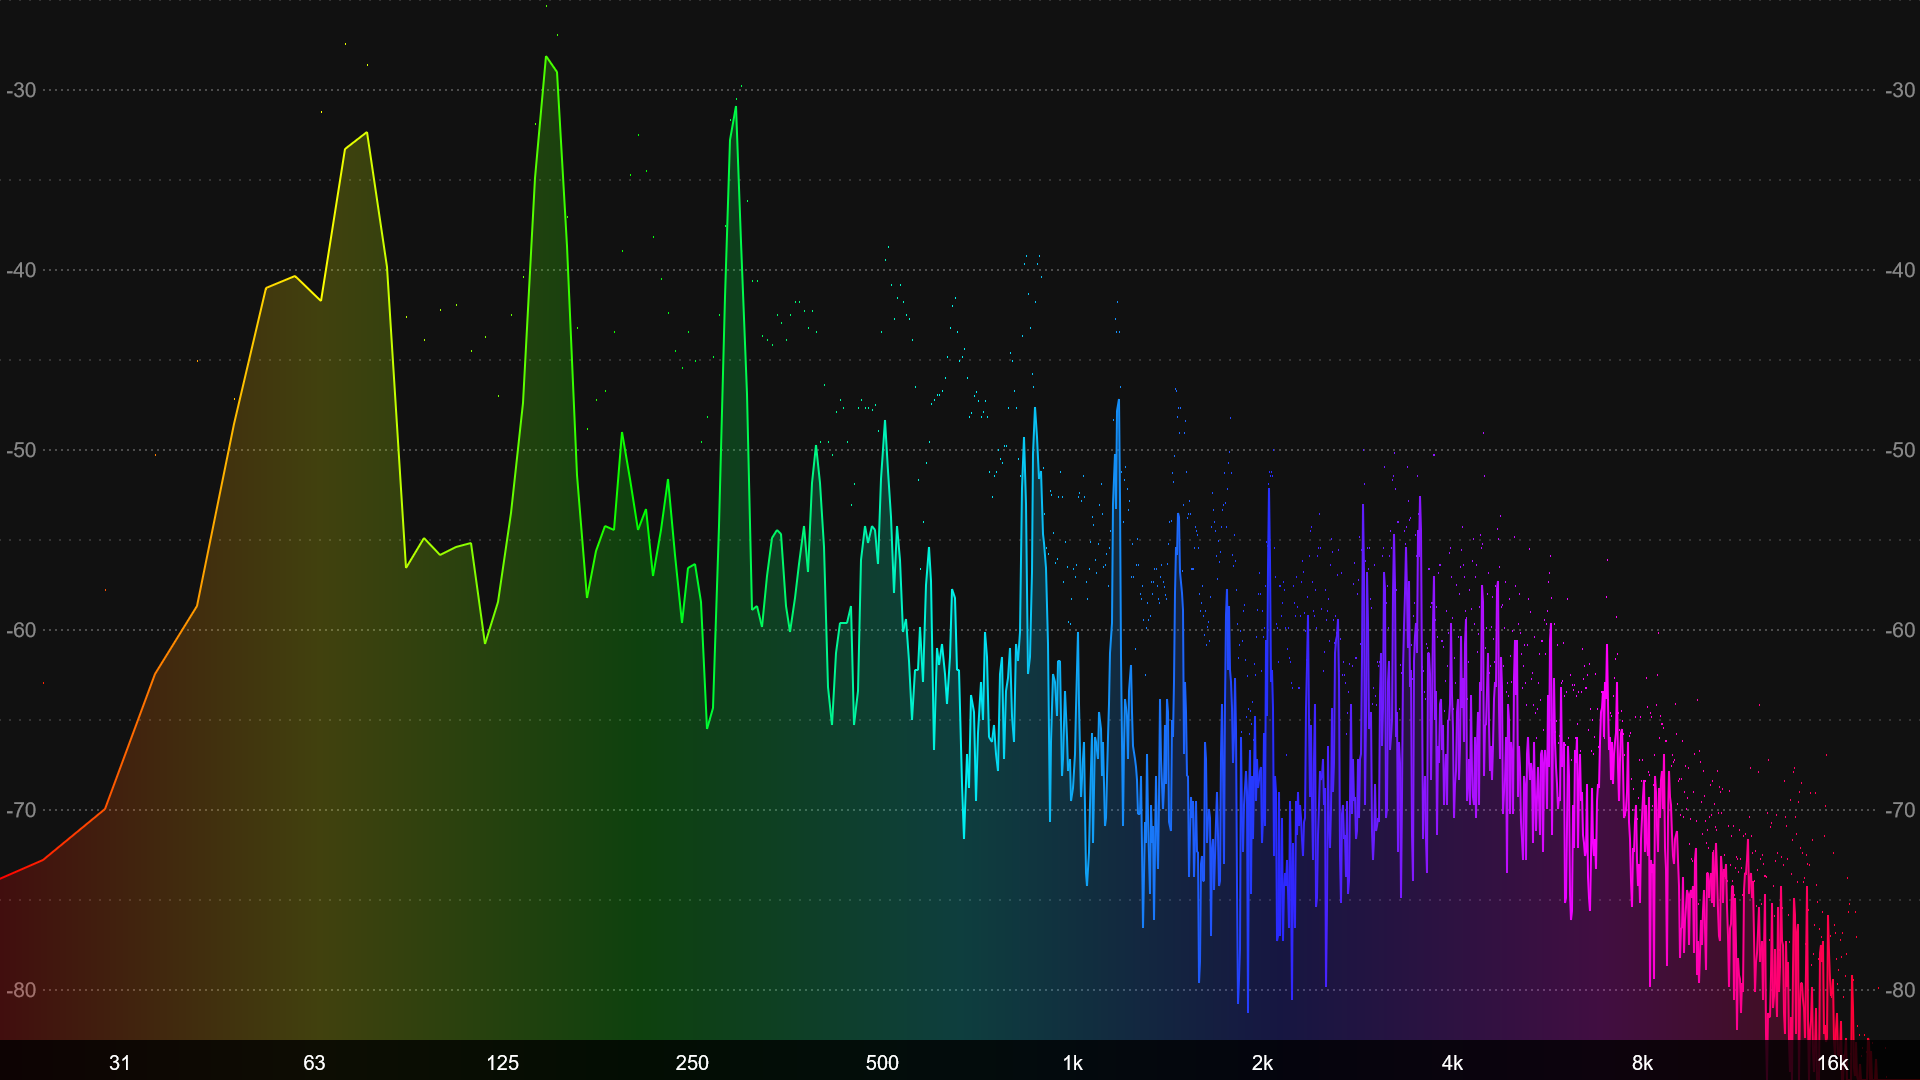
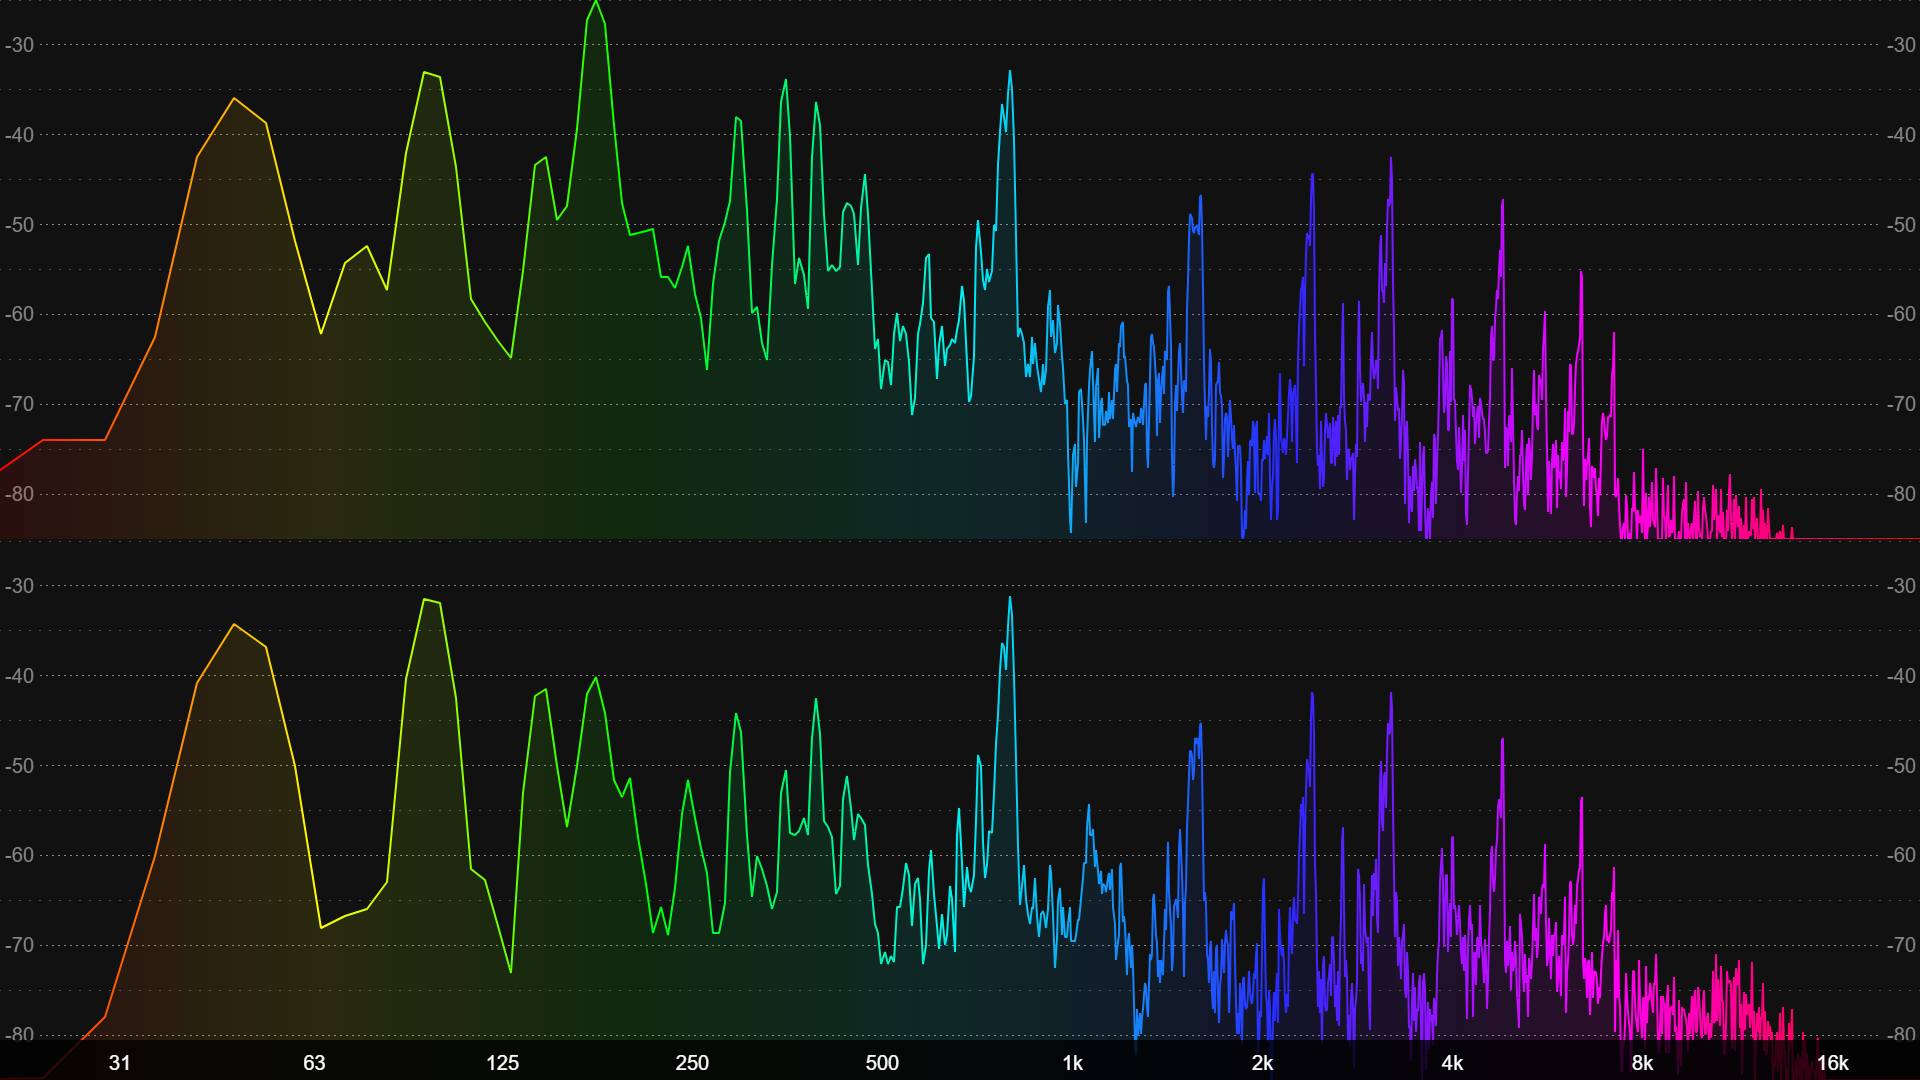
Update documentation.

diff --git a/docs/user-interface.md b/docs/user-interface.md
@@ -13,9 +13,9 @@ nav_order: 1
 
 ![ui-buttons](img/UI_main_buttons.png)
 
-- **Settings** - open / close the [Settings panel](#settings-panel)
-- **Config** - open the [Config](#config) window
-- **Console** - open / close the [Console](#console) panel
+- **Settings** - open / close the [Settings](#settings-panel) panel
+- **Config** - open the [Config](#config-panel) panel
+- **Console** - open / close the message [Console](#console)
 
 - **Fullscreen** - display the spectrum analyzer in fullscreen
 - **Controls** - show [keyboard shortcuts](#keyboard-shortcuts) information
@@ -36,8 +36,8 @@ The *Stereo mix* input allows audioMotion to read audio generated by any program
 
 ## Player controls
 
-| button | function |
-|--------|----------|
+| button | action |
+|:------:|:---------|
 | ![ui-player-play-pause](img/UI_player_play_pause.png "play / pause") | Play / pause |
 | ![ui-player-previous](img/UI_player_previous.png "previous") | Previous track - Hold to rewind |
 | ![ui-player-stop](img/UI_player_stop.png "stop") | Stop playback and reset the queue pointer to the first song |
@@ -58,7 +58,7 @@ Volume can also be adjusted with the **Up** and **Down** arrow keys.
 The following keyboard shortcuts that can be used to control the player and change some visualization settings without leaving fullscreen:
 
 | key | action |
-|-----|--------|
+|:----|:-------|
 **Up** / **Down** | volume up / down
 **Left** / **Right** | play previous / next song (hold for rewind / fast forward)
 **Space** | play / pause
@@ -100,11 +100,11 @@ Double-click a music or playlist file to quickly add it to the queue. Hold *Ctrl
 You can drag and drop selected files into the play queue, or use the buttons:
 
 | button | action |
-|--------|--------|
-| **Add selected** | Add currently selected files in the file explorer to the play queue |
-| **Add all files** | Add all files in the current folder to the play queue |
+|:-------|:-------|
 | **Upload file** | Play any music file from your computer, even if it's not in the shared folder. Uploaded files can't be added to queue or saved to playlists. |
 | **Add from URL** | Load a remote audio file or stream from an URL |
+| **Add selected** | Add currently selected files in the file explorer to the play queue |
+| **Add all files** | Add all files in the current folder to the play queue |
 
 ### Using the play queue and playlists
 
@@ -113,14 +113,14 @@ Double-click a queued song to play it.
 Drag and drop songs to reorder them inside the queue. Hold *Ctrl* to select multiple files, or *Shift* to select a range.
 Press *Delete* (*Backspace* on Mac) to remove selected songs from the queue.
 
-You can save the current play queue by clicking the **Save as...** button.
+You can save the current play queue by clicking the **Save as...** button. Use the **Clear** button to clear the queue.
 
 Saved playlists are stored locally in your browser and appear in the playlist selection box.
 
 Select a playlist and click one of the buttons:
 
 | button | action |
-|--------|--------|
+|:-------|:-------|
 | ![folder-button](img/folder-button.png "folder") | Load the selected playlist. Please note that the playlist contents will be **added** to the current queue. |
 | ![disk-button](img/save-button.png "floppy disk") | Update the selected playlist with the current queue contents |
 | ![trash-button](img/trash-button.png "trashcan") | Permanently delete the selected playlist |
@@ -180,9 +180,9 @@ These settings are effective only when [Line graph mode](#mode) is selected.
 
 Several options of color gradients for the analyzer graphs. You can also change gradients using the **G** and **Shift + G** keyboard shortcuts.
 
-| switch | function |
-|--------|----------|
-| **AUTO** | select the **next gradient** on each track change, or **random gradient** on each mode change when [Random mode](#random-mode) is active |
+| switch | action |
+|:-------|:-------|
+| **AUTO** | select the **next gradient** on each track change, or a **random gradient** on each mode change when [Random mode](#random-mode) is active |
 | **SPLIT** | when [Stereo](#switches) is active, splits the gradient between both channels, so each channel will have different colors |
 
 ### Effects
@@ -191,8 +191,8 @@ Several options of color gradients for the analyzer graphs. You can also change 
 
 Select additional visualization effects for **octave bands modes only.**
 
-| switch | function |
-|--------|----------|
+| switch | action |
+|:-------|:-------|
 | **LEDS** | toggle the vintage LED effect for the analyzer bars |
 | **LUMI** | toggle the luminance bars effect - all analyzer bars are displayed at full-height, varying their luminance instead |
 
@@ -202,7 +202,7 @@ Select additional visualization effects for **octave bands modes only.**
 
 If the **RADIAL** switch is on, the spectrum analyzer is displayed as a circle with radial frequencies. **This mode disables both LEDS and LUMI effects.**
 
-You can also toggle radial mode using the **C** keyboard shortcut.
+You can also toggle the radial analyzer with the **C** keyboard shortcut.
 
 The **SPIN** slider allows you to configure the analyzer spinning speed, when in radial mode.
 
@@ -254,13 +254,13 @@ Selects a reflection style for the analyzer. This setting has no effect when the
 
 Adjusts the analyzer sensitivity to improve the visualization of songs too quiet or too loud. You can also use the **N** and **Shift + N** keyboard shortcuts.
 
-The presets can be customized in the [Config Panel](#config-panel).
+The presets can be customized in the [Config panel](#config-panel).
 
 ### Frequency Range
 
 ![ui-frequency-range](img/UI_frequency_range.png)
 
-The lowest and highest frequencies you want to see in the graphic spectrum analyzer. You can use this feature to "zoom in" a specific frequency range.
+The lowest and highest frequencies represented in the spectrum analyzer. You can use this feature to "zoom in" a specific frequency range.
 
 ### FFT Size
 
@@ -284,15 +284,15 @@ Increase it if the animation looks too "jumpy".
 
 ![ui-switches](img/UI_switches.png)
 
-| switch | function |
-|--------|----------|
+| switch | action |
+|:-------|:-------|
 | **SCALEX** | show frequency (Hz) scale on the horizontal axis |
 | **SCALEY** | show level (dB) scale on the vertical axis |
 | **INFO** | toggle on-screen display of song information on every track change |
 | **PEAKS** | show amplitude peaks for each frequency |
 | **FLAT** | toggle outline (on) or shadow (off) for text messages displayed on canvas - may improve performance, depending on your graphic card and browser |
 | **LO-RES** | reduce canvas resolution to improve rendering speed (especially useful for 4K+ displays) |
-| **STEREO** | toggle stereo (dual channel) analyzer, with separate graphs for left and right channels.<br>This setting does NOT change the audio output of stereo songs. |
+| **STEREO** | toggle dual channel display, with separate analyzer graphs for left and right channels. This setting does NOT change the audio output of stereo songs. |
 | **FPS** | show current framerate at the top right corner |
 
 ### Preset

diff --git a/README.md b/README.md
@@ -76,19 +76,24 @@ For full documentation summary, see the [docs folder](docs/).
 
 ## Screenshots
 
-Analyzer in [Discrete frequencies](docs/user-interface.md#mode) mode. User interface showing the file explorer and play queue.
+Analyzer in [Discrete frequencies](docs/user-interface.md#mode) mode. User interface components:
+[main function buttons](docs/user-interface.md#main-function-buttons),
+[audio source](docs/user-interface.md#audio-source) selector,
+[player controls](docs/user-interface.md#player-controls),
+[volume control](docs/user-interface.md#volume-control) and
+[file explorer and play queue](docs/user-interface.md#file-explorer-and-play-queue).
 ![screenshot1](docs/img/screenshot1.png)
 
-1/4th-octave bands with LED effect, extra wide bar spacing and on-screen song information. User interface shows the [settings panel](docs/user-interface.md#settings-panel) open.
+1/4th-octave bands with LED effect, extra wide [bar spacing](docs/user-interface.md#bar-spacing) and on-screen song information. User interface shows the [settings panel](docs/user-interface.md#settings-panel) open.
 ![screenshot2](docs/img/screenshot2.png)
 
 Fullscreen view: 1/6th-octave bands, regular bar spacing, "Outrun" gradient, [Reflex](docs/user-interface.md#reflex) effect and complete on-screen information.
 ![screenshot3](docs/img/screenshot3.png)
 
-Fullscreen view: Line graph, frequency and level scales on, "Rainbow" gradient.
+Fullscreen view: [Stereo](docs/user-interface.md#switches) Line graph, frequency and level scales on, "Rainbow" gradient.
 ![screenshot6](docs/img/screenshot6.png)
 
-Fullscreen view: 1/8th-octave bands, [LUMI effect](docs/user-interface.md#effects), "Tie Dye" gradient.
+Fullscreen view: 1/8th-octave bands, [LUMI effect](docs/user-interface.md#effects) on, "Tie Dye" gradient.
 ![screenshot5](docs/img/screenshot5.png)
 
 Fullscreen view: 1/6th-octave bands, [Radial](docs/user-interface.md#radial) analyzer, frequency scale on, "Apple ][" gradient.
